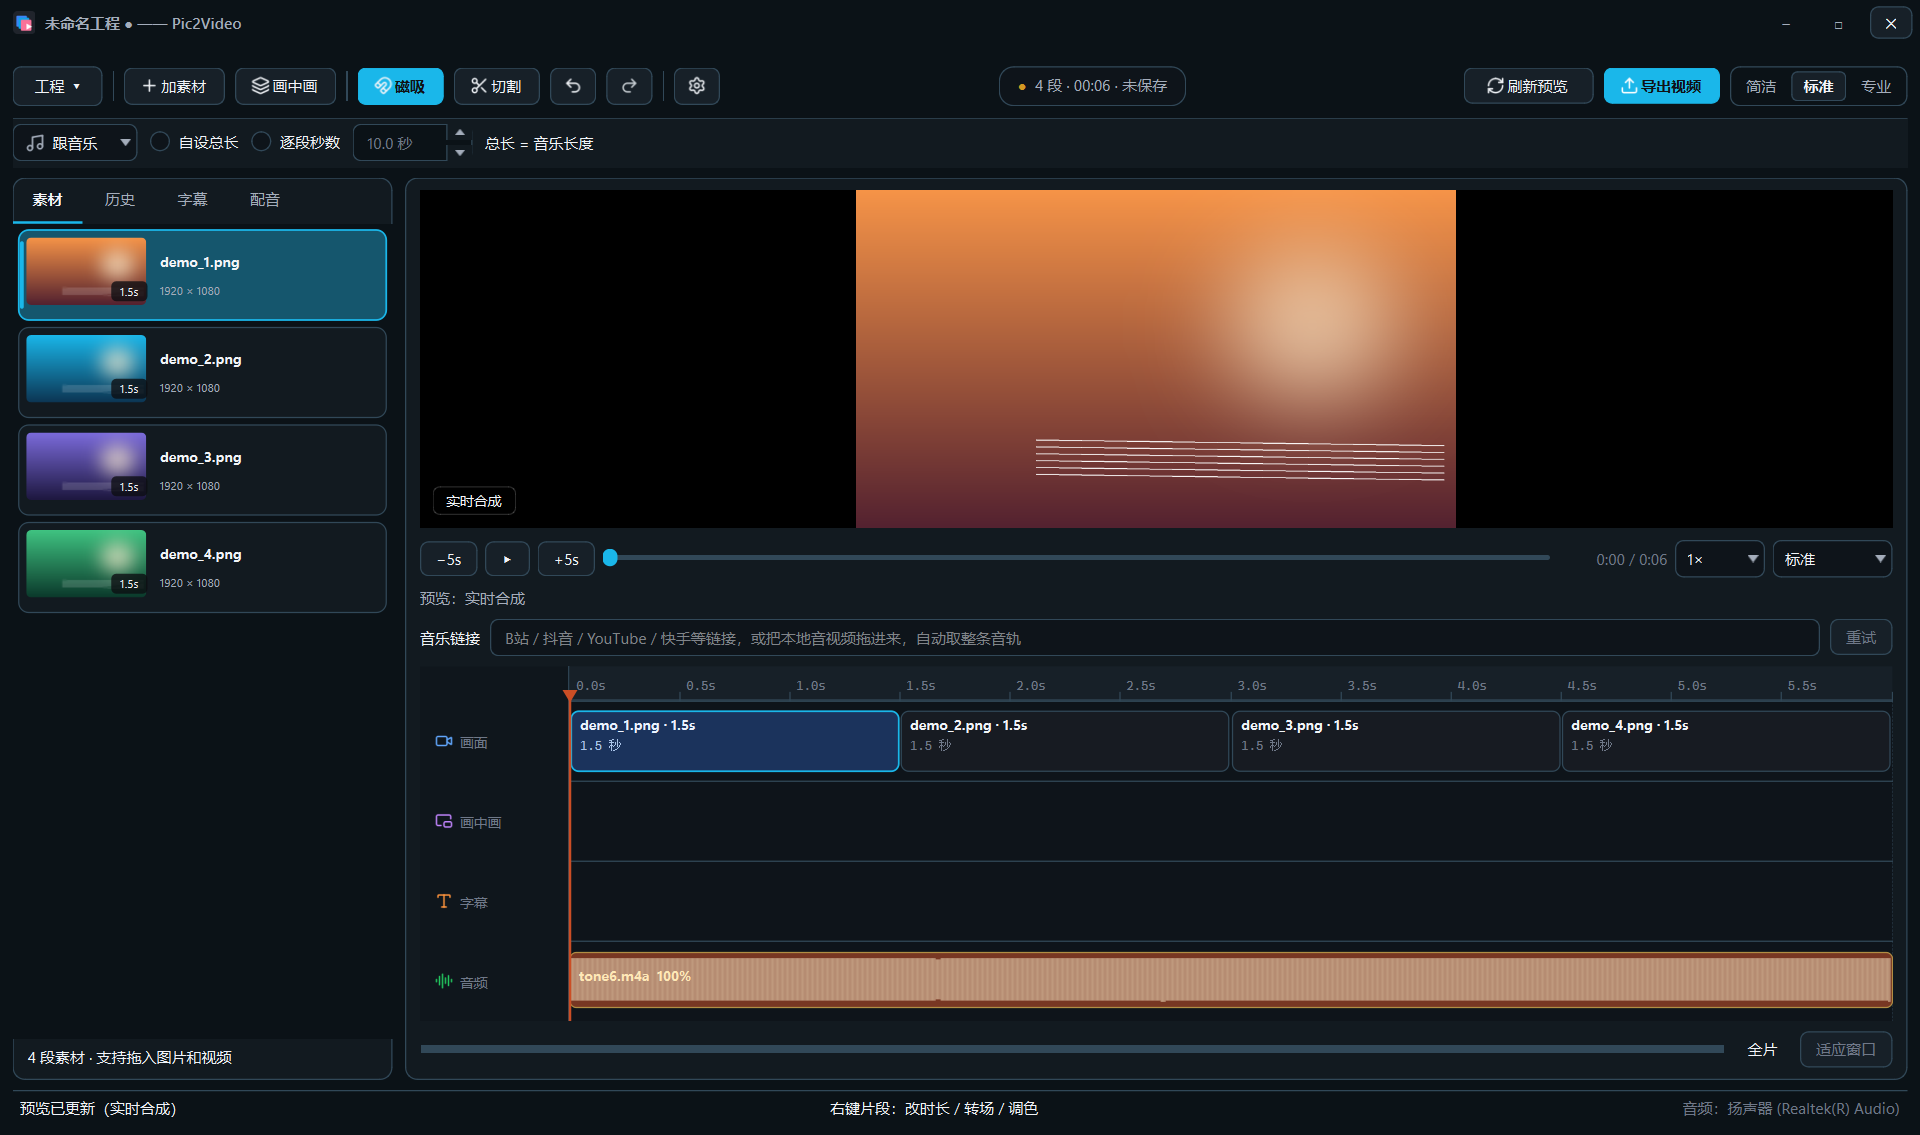
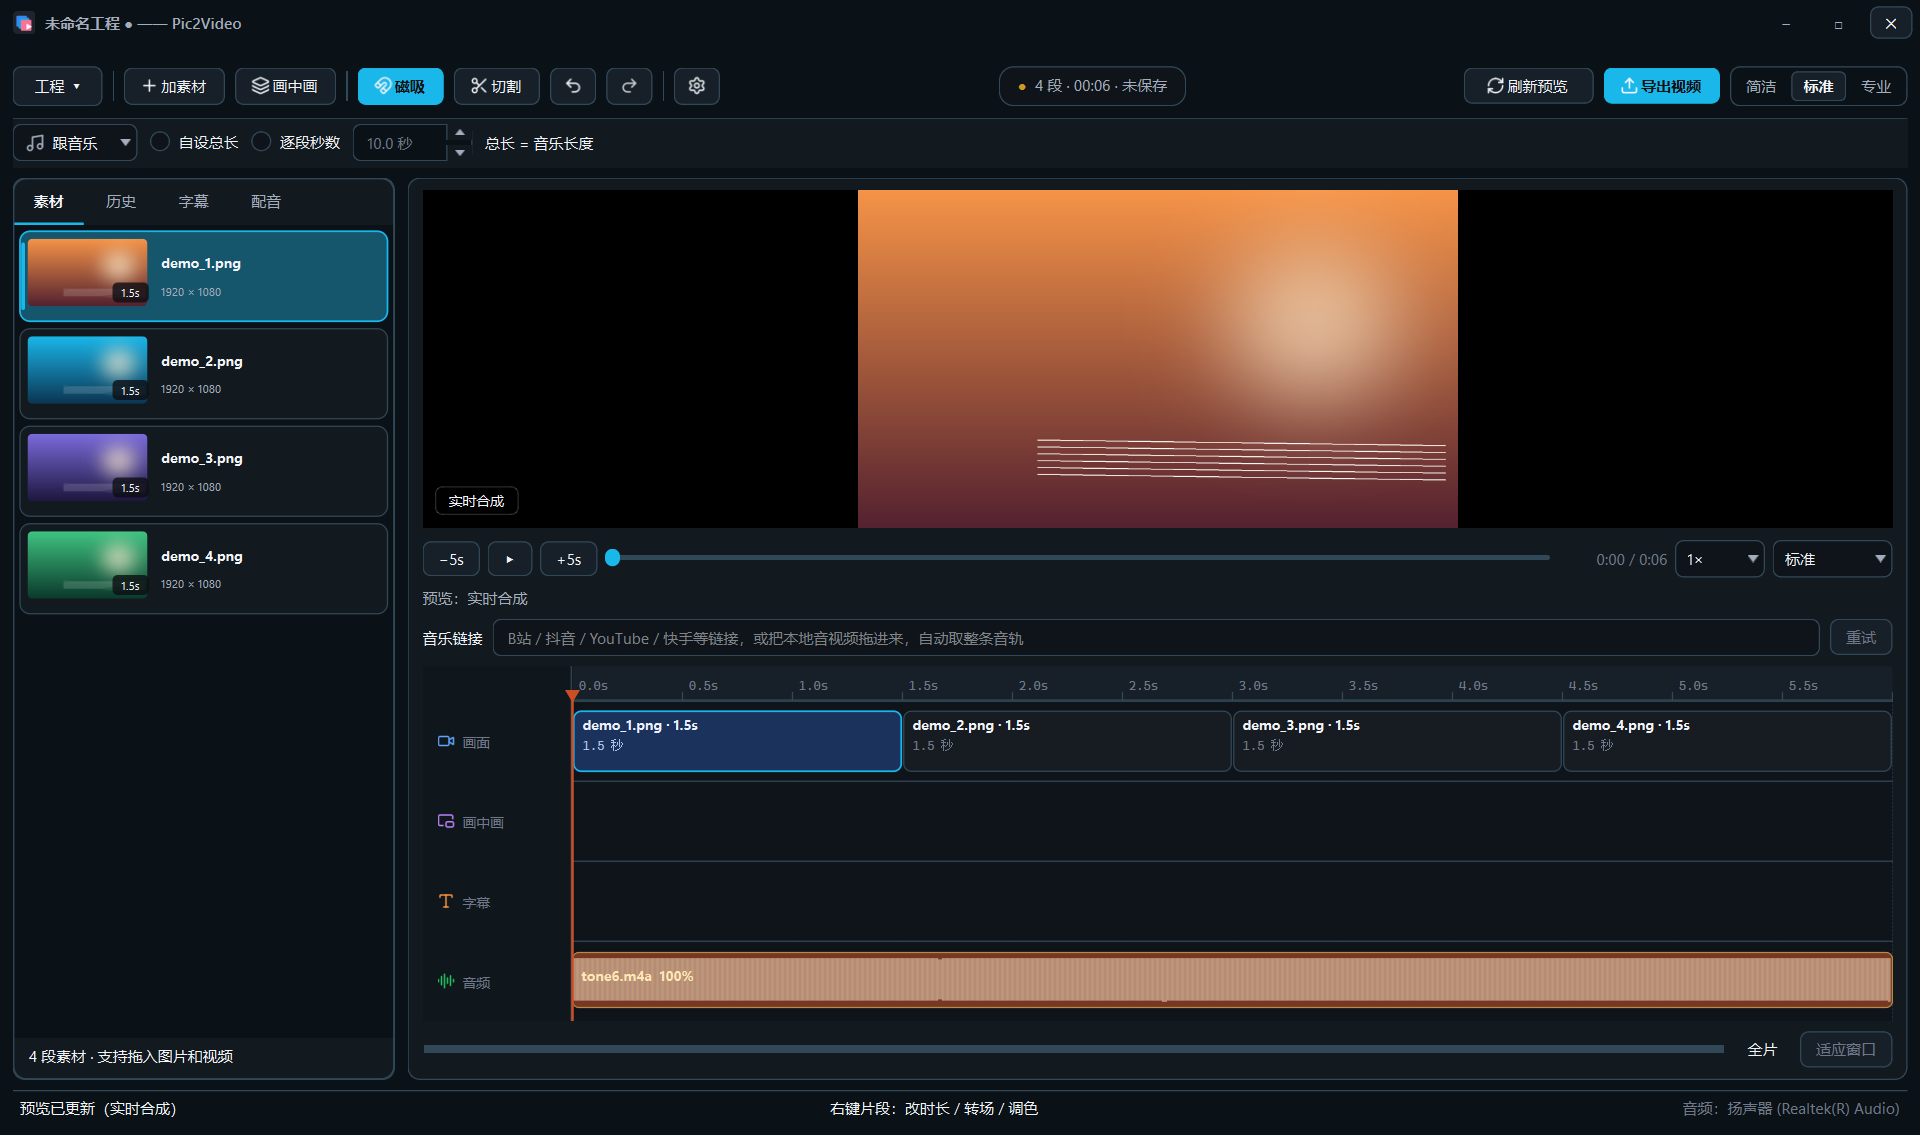
fix(ui): 左栏素材框四边闭合，不再被标签页和列表盖住

diff --git a/pic2video.py b/pic2video.py
@@ -5787,6 +5787,27 @@ def run_gui() -> int:
                        | Qt.AlignmentFlag.AlignLeft, text)
             p.end()
 
+    class RailBorder(QWidget):
+        """压在左栏所有子控件上面画一圈闭合边框，避免被标签页/列表盖掉。"""
+
+        def __init__(self, parent, color):
+            super().__init__(parent)
+            self._color = QColor(color)
+            self.setAttribute(Qt.WidgetAttribute.WA_TransparentForMouseEvents, True)
+            self.setAttribute(Qt.WidgetAttribute.WA_NoSystemBackground, True)
+
+        def set_color(self, color):
+            self._color = QColor(color)
+            self.update()
+
+        def paintEvent(self, ev):
+            p = QPainter(self)
+            p.setRenderHint(QPainter.RenderHint.Antialiasing, True)
+            p.setBrush(Qt.BrushStyle.NoBrush)
+            p.setPen(QPen(self._color, 1))
+            p.drawRoundedRect(self.rect().adjusted(1, 1, -1, -1), 10, 10)
+            p.end()
+
     class Timeline(QWidget):
         """双轨时间线：上面视频元素，下面音频元素。
 
@@ -9087,13 +9108,19 @@ def run_gui() -> int:
             left_dock = QWidget()
             left_dock.setObjectName("leftRail")
             lv = QVBoxLayout(left_dock)
-            lv.setContentsMargins(0, 0, 0, 0)
+            # 留 1px 给外框，否则标签页和列表会把圆角边盖掉，看起来像没关拢
+            lv.setContentsMargins(1, 1, 1, 1)
             lv.setSpacing(0)
             lv.addWidget(self.left_tabs, 1)
             self.lbl_left_hint = QLabel(tr("{n} 段素材 · 支持拖入图片和视频", n=0))
             self.lbl_left_hint.setObjectName("hint")
             self.lbl_left_hint.setContentsMargins(12, 6, 12, 10)
             lv.addWidget(self.lbl_left_hint)
+            self._left_rail = left_dock
+            self._left_border = RailBorder(left_dock, "#343c48")
+            self._left_border.setGeometry(left_dock.rect())
+            self._left_border.raise_()
+            left_dock.installEventFilter(self)
             split.addWidget(left_dock)
 
             right = QWidget()
@@ -9505,6 +9532,8 @@ def run_gui() -> int:
             pal = theme.palette(theme.resolve(self.settings["theme"]),
                                 self.settings["accent"])
             self.pal = pal
+            if hasattr(self, "_left_border"):
+                self._left_border.set_color(pal["border"])
             self._apply_toolbar_icons(pal)
             if hasattr(self, "list_delegate"):
                 self.list_delegate.pal = pal
@@ -11460,6 +11489,12 @@ def run_gui() -> int:
             装在 QApplication 上，所以要绕开输入框、下拉框、列表这些
             自己要用方向键的控件。
             """
+            if (obj is getattr(self, "_left_rail", None)
+                    and ev.type() == QEvent.Type.Resize
+                    and hasattr(self, "_left_border")):
+                self._left_border.setGeometry(obj.rect())
+                self._left_border.raise_()
+                return False
             if (ev.type() != QEvent.Type.KeyPress
                     or QApplication.activeModalWidget() is not None
                     or QApplication.activePopupWidget() is not None

diff --git a/tests/test_project.py b/tests/test_project.py
@@ -4388,6 +4388,9 @@ check("时间线轨头有图标", 'lane_label("video", tr("画面")' in _src
       and 'lane_label("subtitle", tr("字幕")' in _src)
 check("预览有实时合成角标", 'self.live_badge = QLabel(tr("实时合成")' in _src
       and 'setObjectName("liveBadge")' in _src)
+check("左栏外框闭合", "class RailBorder(QWidget)" in _src
+      and "self._left_border.raise_()" in _src
+      and "lv.setContentsMargins(1, 1, 1, 1)" in _src)
 
 check("最大化时切档不拉宽", "if not self.is_maxed() and target > self.width():" in _src)
 check("不再无条件按最小宽度拉窗口",
